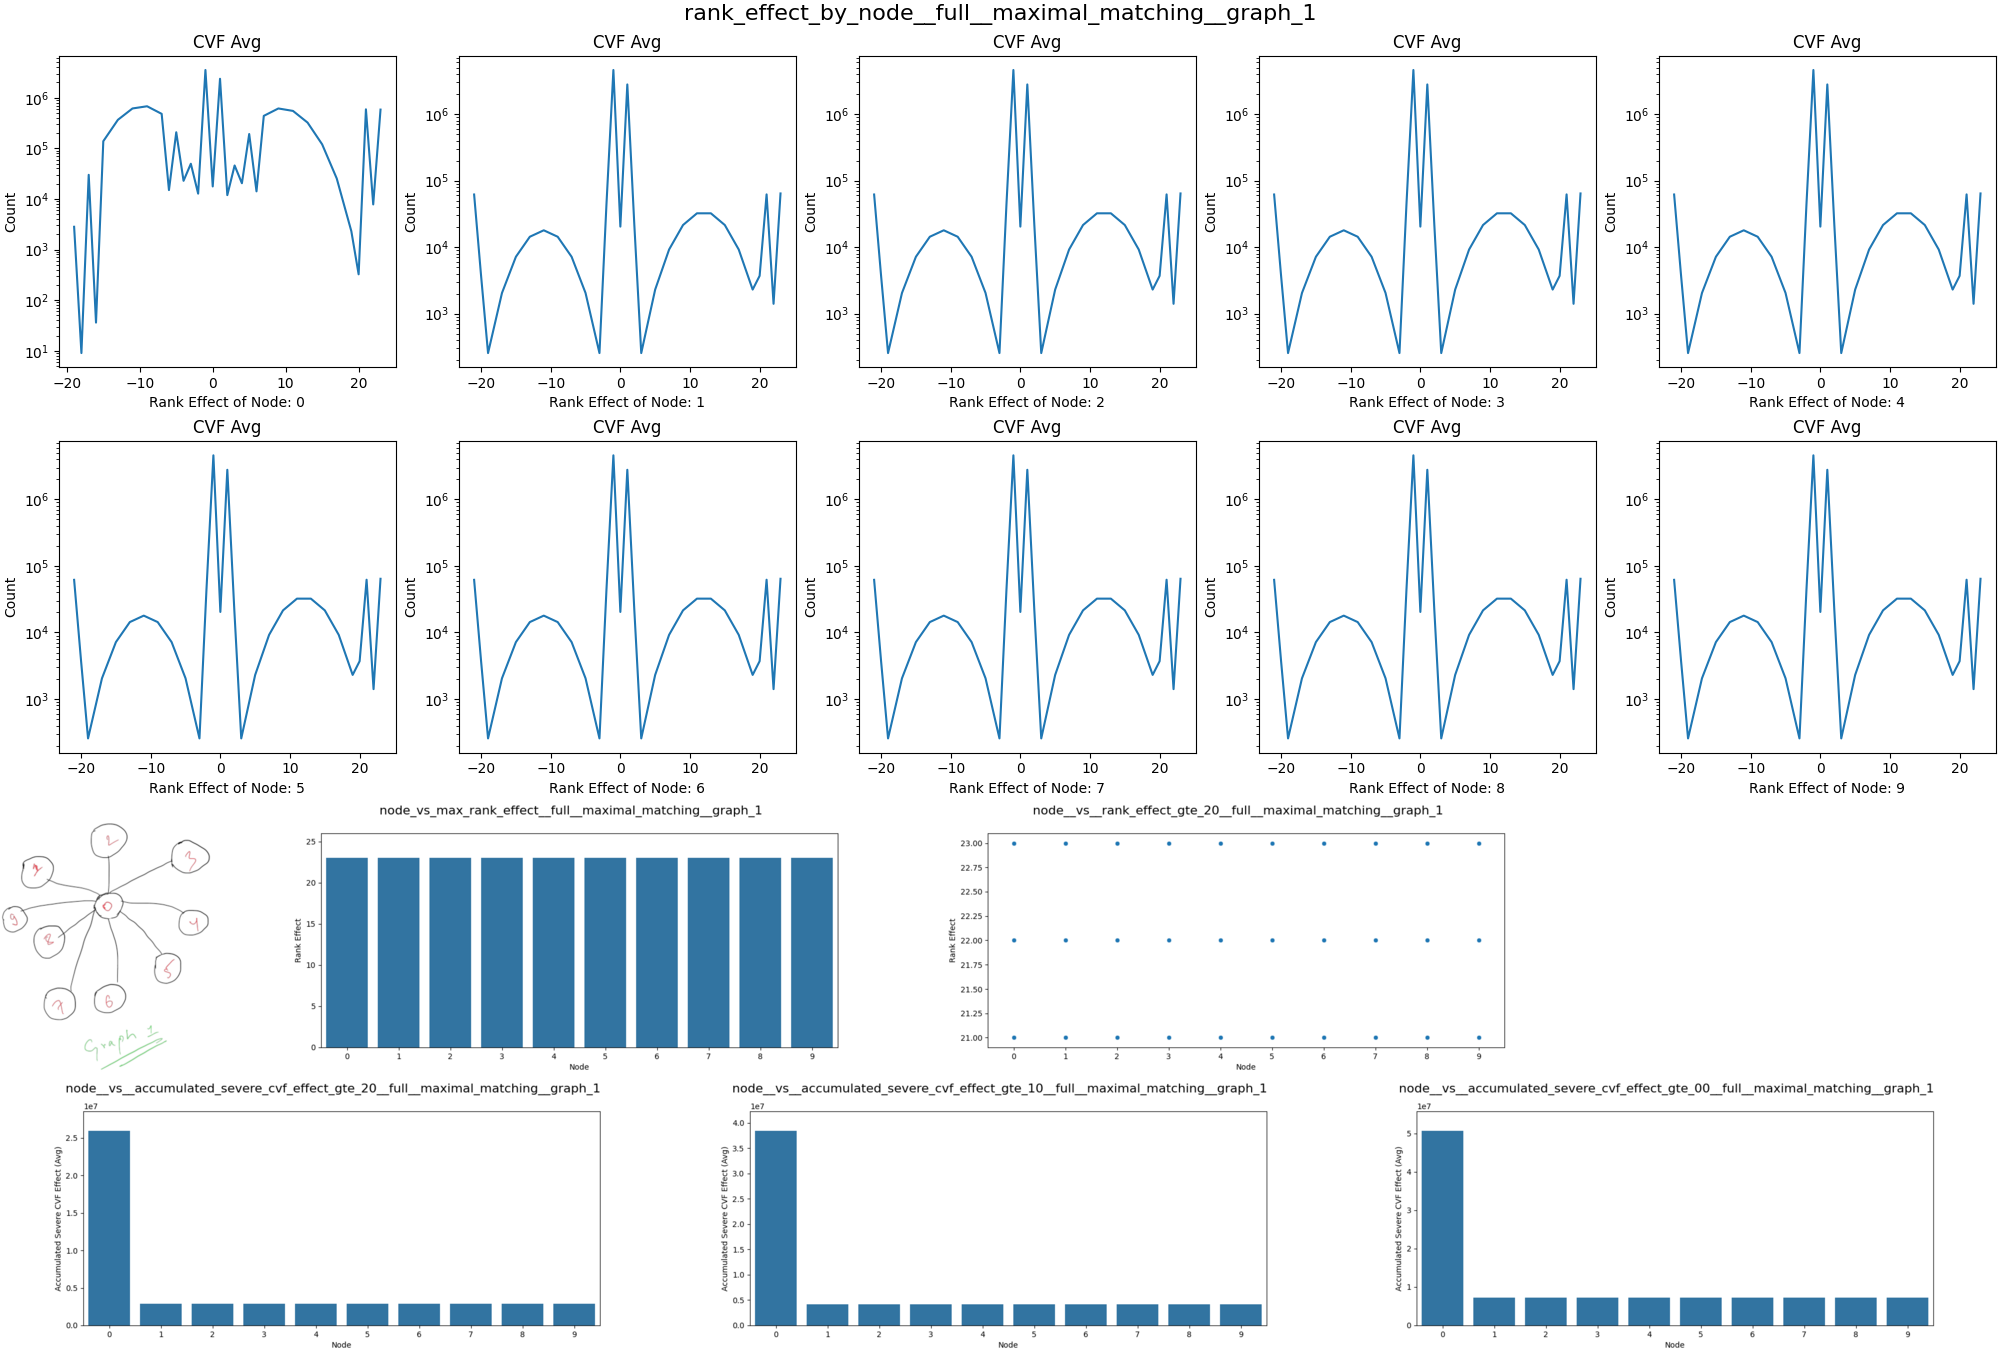
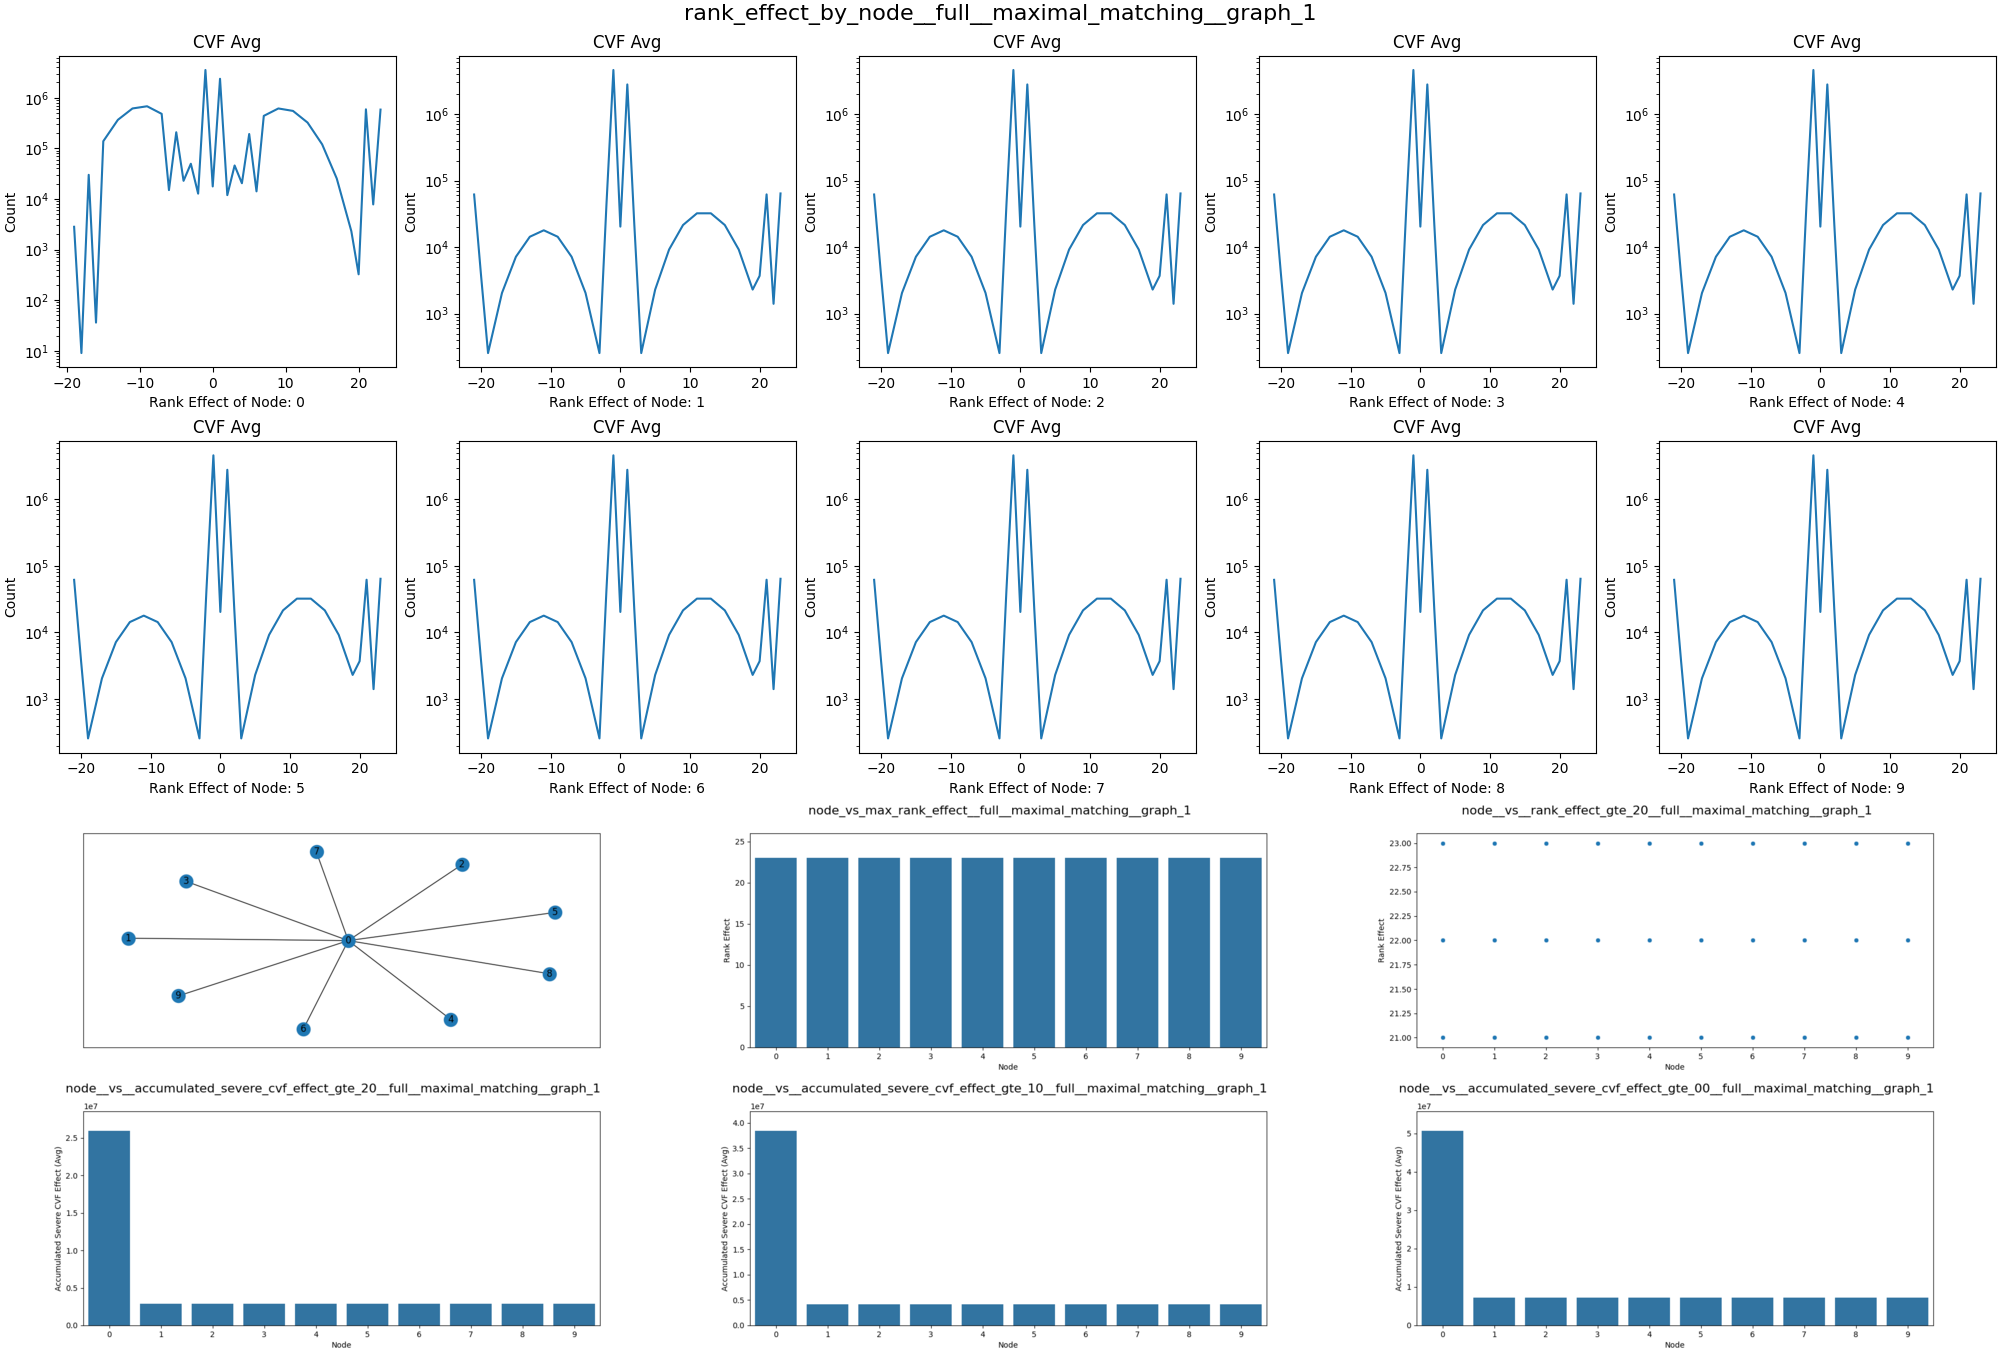
updates

diff --git a/cvf-analysis/plot_graphs.py b/cvf-analysis/plot_graphs.py
@@ -3,22 +3,24 @@ import networkx as nx
 from matplotlib import pyplot as plt
 
 graph_names = [
-    "graph_1",
-    "graph_2",
-    "graph_3",
-    # "graph_4",
-    # "graph_5",
-    "graph_6",
-    "graph_6b",
-    "graph_7",
-    "graph_8",
+    # "graph_1",
+    # "graph_2",
+    # "graph_3",
+    
+    # "graph_6",
+    # "graph_6b",
+    # "graph_7",
+    # "graph_8",
+
+    "graph_4",
+    "graph_5",
 ]
 
-planar = False
+planar = True
 
 for gname in graph_names:
     G = nx.read_adjlist(f"graphs/{gname}.txt")
-    fig = plt.figure()
+    fig = plt.figure(figsize=(12, 5))
     if planar:
         pos = nx.planar_layout(G)
         nx.draw_networkx(G, pos=pos, ax=fig.add_subplot())
